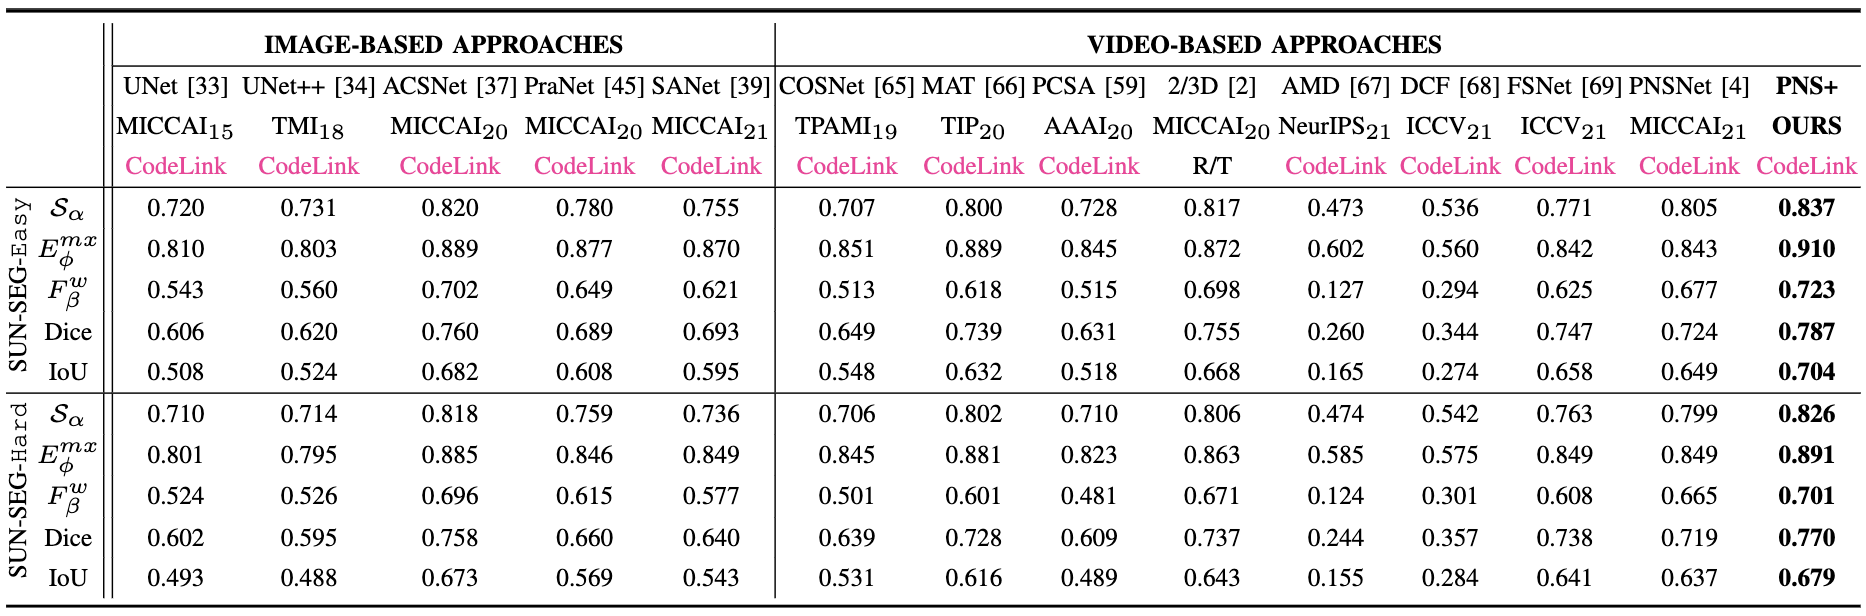
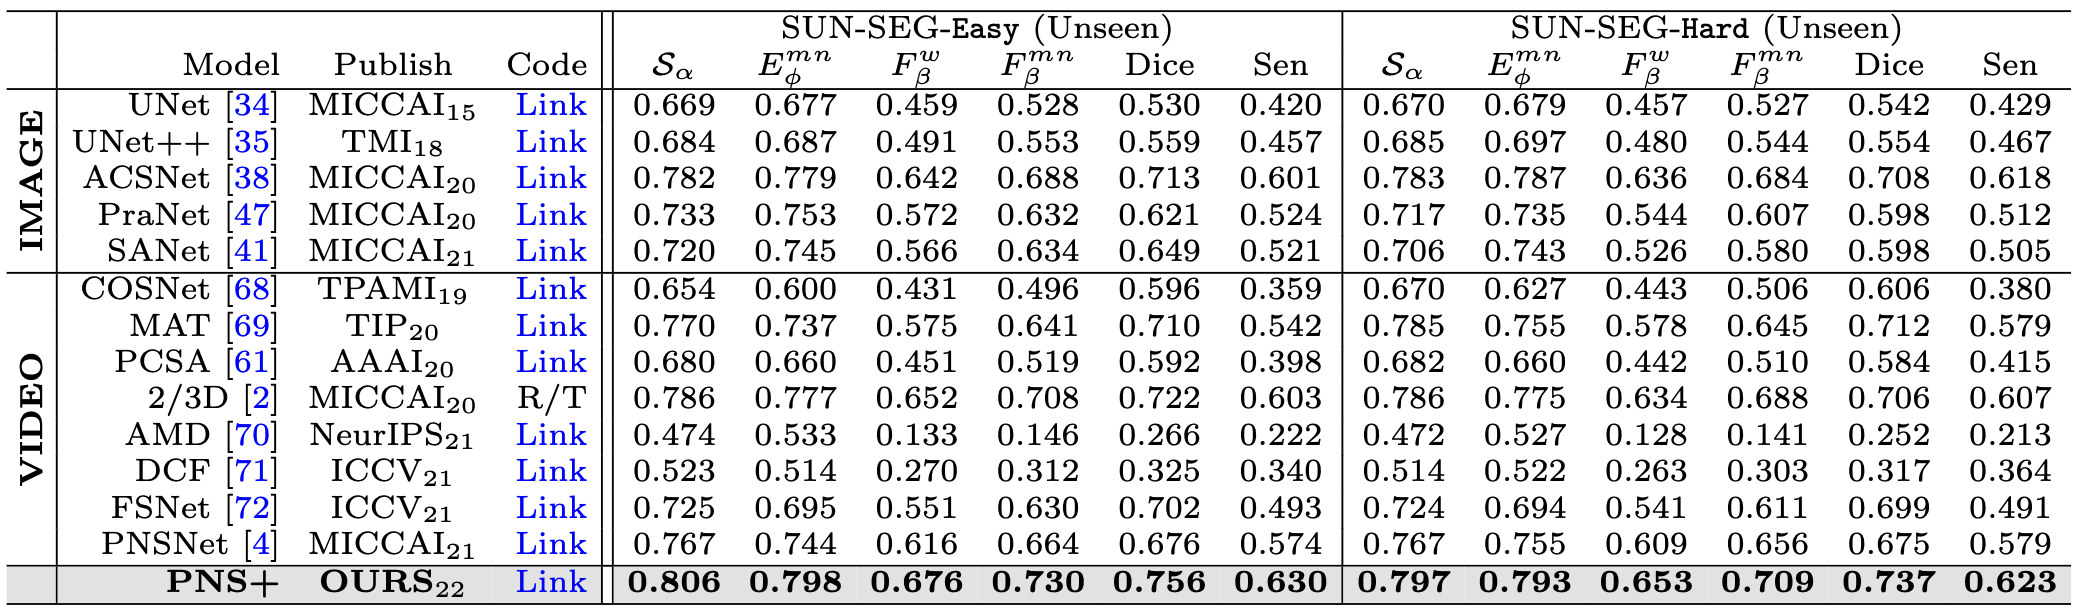
[update] new version of SUN-SEG

diff --git a/docs/DATA_DESCRIPTION.md b/docs/DATA_DESCRIPTION.md
@@ -13,18 +13,18 @@ As such, it yields the final version of our SUN-SEG dataset, which includes 49,1
 - [The Descriptions of SUN-SEG Dataset](#the-descriptions-of-sun-seg-dataset)
 - [File Tree Organization](#file-tree-organization)
 - [Dataset Statistics](#dataset-statistics)
-  * [Positive Part](#positive-part)
-  * [Negative Part](#negative-part)
+  - [Positive Part](#positive-part)
+  - [Negative Part](#negative-part)
 - [Label Description](#label-description)
-  * [Label-I: Category Classification Annotation](#label-i--category-classification-annotation)
-  * [Label-II: Object Mask](#label-ii--object-mask)
-  * [Label-III: Bounding Box](#label-iii--bounding-box)
-  * [Label-IV: Boundary](#label-iv--boundary)
-  * [Label-V: Two Weak Labels (Scribble & Polygon)](#label-v--two-weak-labels--scribble---polygon-)
-  * [Label-VI: Attributes Description](#label-vi--attributes-description)
-  * [Reference](#reference)
+  - [Label-I: Category Classification Annotation](#label-i-category-classification-annotation)
+  - [Label-II: Object Mask](#label-ii-object-mask)
+  - [Label-III: Bounding Box](#label-iii-bounding-box)
+  - [Label-IV: Boundary](#label-iv-boundary)
+  - [Label-V: Two Weak Labels (Scribble & Polygon)](#label-v-two-weak-labels-scribble--polygon)
+  - [Label-VI: Attributes Description](#label-vi-attributes-description)
+- [Rejected Labels](#rejected-labels)
 - [Citations](#citations)
-- [Rejected Labels](#reject-labels)
+  - [Reference](#reference)
 
 
 # File Tree Organization
@@ -35,7 +35,7 @@ The `Frame` folder contains the frames and the rest folders contain the correspo
 ├──data
     ├──SUN-SEG
         ├──TrainDataset
-            ├──Frame  # The images from the SUN dataset
+            ├──Frame  # The images from SUN dataset
                 ├──case1_1
                     ├──image_name_00001.jpg
                     |...
@@ -47,7 +47,7 @@ The `Frame` folder contains the frames and the rest folders contain the correspo
                     |...
                 ├──case1_3
                 |...
-            ├──Edge  # object-level segmentation mask
+            ├──Edge  # Weak label with edge
                 |...
             ├──Scribble  # Weak label with scribble
                 |...
@@ -58,21 +58,39 @@ The `Frame` folder contains the frames and the rest folders contain the correspo
             ├──Detection  # Bounding box
                 ├──bbox_annotation.json
         ├──TestEasyDataset
-            ├──Frame
-                ├──case2_3
+            ├──Seen
+                ├──Frame
+                    ├──case2_3
+                    |...
+                ├──GT
+                    ├──case2_3
+                    |...
                 |...
-            ├──GT
-                ├──case2_3
+            ├──Unseen
+                ├──Frame
+                    ├──case3_1
+                    |...
+                ├──GT
+                    ├──case3_1
+                    |...
                 |...
-            |...
         ├──TestHardDataset
-            ├──Frame
-                ├──case1_2
+            ├──Seen
+                ├──Frame
+                    ├──case1_2
+                    |...
+                ├──GT
+                    ├──case1_2
+                    |...
                 |...
-            ├──GT
-                ├──case1_2
+            ├──Unseen
+                ├──Frame
+                    ├──case10_1
+                    |...
+                ├──GT
+                    ├──case10_1
+                    |...
                 |...
-            |...
 ```
 
 
@@ -245,7 +263,7 @@ Next, we provide the complete attributes for our SUN-SEG dataset.
 
 To support learning strategies such as multi-rater agreement modeling, we follow the same file organization and relaese the rejected labels from our labeling process. 
 
-We release 49,136+17,422 labels in total, you can download the annotation file from [Google Drive](https://drive.google.com/file/d/1OtK2PR6gKQv56dIFjw0rXadcgGonf93S/view?usp=sharing) / [Baidu Drive](https://pan.baidu.com/s/18heWG-t4xNUruv-RGI5HoQ) (Password: tm1l, Size: 342MB). The label with `IMAGE_NAME_*.png` naming format is the rejected label and vice versa.
+We release 49,136+17,422 labels in total, you can download the annotation file from [OneDrive](https://anu365-my.sharepoint.com/:u:/g/personal/u7248002_anu_edu_au/Ecqs8BmYEahNh25lpJ5sVEEBHJR-IlWUxwdMz2ewGs_x8w?e=6U93Ne) / [Baidu Drive](https://pan.baidu.com/s/1U7blw6drRjgoBichthIO0w) (Password: 18rp, Size: 120MB). The label with `IMAGE_NAME_*.png` naming format is the rejected label and vice versa.
 There are 33,331 images with 1 label, 14,211 images with 2 labels, 1571 images with 3 labels, and 23 images with 4 labels.
 
 

diff --git a/README.md b/README.md
@@ -106,7 +106,7 @@ There are three simple-to-use steps to access our project code (PNS+):
 - Testing:
     
     Downloading pre-trained weights and move it into `snapshot/PNSPlus/epoch_15/PNSPlus.pth`, 
-    which can be found in this download link: [Google Drive](https://drive.google.com/drive/folders/1NboArbmI4qg9AMQA0VoJmg4g1FaMUh4Q?usp=sharing) / [Baidu Drive](https://pan.baidu.com/s/1mnd9GD2BiWFzsibv7WiwAA) (Password: g7sa, Size: 108MB).
+    which can be found in this download link: [OneDrive](https://anu365-my.sharepoint.com/:u:/g/personal/u7248002_anu_edu_au/EeisMVbuRjhJuevFzWeH1jIBsVM6DFjDABhJNONhWhHPLg?e=1gMnia) / [Baidu Drive](https://pan.baidu.com/s/1mnd9GD2BiWFzsibv7WiwAA) (Password: g7sa, Size: 108MB).
     ```bash
     python ./scripts/my_test.py
     ```
@@ -114,7 +114,7 @@ There are three simple-to-use steps to access our project code (PNS+):
 
 # 5. VPS Benchmark
 
-We provide an out-of-the-box evaluation toolbox for the VPS task, which is written in Python style. You can just run it to generate the evaluation results on your custom approach. Or you can directly download the complete VPS benchmark including prediction map of each competitor at download link: [Google Drive](https://drive.google.com/drive/folders/15xBWCFuWWg9YL5p4qdcfz8-yEeJlNFxg?usp=sharing) / [Baidu Drive](https://pan.baidu.com/s/1plDtddL9L_f0dqrREVkIPg) (Password: 9c4p, Size: 7.28G).
+We provide an out-of-the-box evaluation toolbox for the VPS task, which is written in Python style. You can just run it to generate the evaluation results on your custom approach. Or you can directly download the complete VPS benchmark including prediction map of each competitor at download link: [OneDrive](https://anu365-my.sharepoint.com/:u:/g/personal/u7248002_anu_edu_au/ESS2WHOQvLhMl5ci8wNO6yYBjnh6EVcp5vYO1z4JoOKUNg?e=nJe6Zi) / [Baidu Drive](https://pan.baidu.com/s/1Qu-0l9w0ja92nzrlWMRhoQ) (Password: 2t1l, Size: 5.45G).
 
 - More instructions about **Evaluation Toolbox** refer to [`PageLink`](https://github.com/GewelsJI/VPS/tree/main/eval).
 
@@ -139,7 +139,7 @@ Here, we present a variety of qualitative and quantitative results of VPS bencha
 <p align="center">
     <img src="./assets/ModelPerformance.png"/> <br />
     <em> 
-    Figure 4: Quantitative comparison on two testing sub-datasets, i.e., SUN-SEG-Easy and SUN-SEG-Hard. `R/T' represents we re-train the non-public model, whose code is provided by the original authors. The best scores are highlighted in bold.
+    Figure 4: Quantitative comparison on two testing sub-datasets, i.e., SUN-SEG-Easy (Unseen) and SUN-SEG-Hard (Unseen). `R/T' represents we re-train the non-public model, whose code is provided by the original authors. The best scores are highlighted in bold.
     </em>
 </p>
 
@@ -147,8 +147,8 @@ Here, we present a variety of qualitative and quantitative results of VPS bencha
 
 <p align="center">
     <img src="./assets/AttributePerformance.png"/> <br />
-    <em> 
-    Figure 5: Visual attributes-based performance on our SUN-SEG-Easy and SUN-SEG-Hard in terms of structure measure.
+    <em>  
+    Figure 5: Visual attributes-based performance on our SUN-SEG-Easy (Unseen) and SUN-SEG-Hard (Unseen) in terms of structure measure.
     </em>
 </p>
 
@@ -172,7 +172,7 @@ If you have found our work useful, please use the following reference to cite th
 
     @article{ji2022vps,
         title={Video Polyp Segmentation: A Deep Learning Perspective},
-        author={Ji, Ge-Peng and Xiao, Guobao and Chou, Yu-Cheng and Fan, Deng-Ping and Zhao, Kai and Chen, Geng and Van Gool, Luc},
+        author={Ji, Ge-Peng and Xiao, Guobao and Chou, Yu-Cheng and Fan, Deng-Ping and Zhao, Kai and Chen, Geng and Fu, Huazhu and Van Gool, Luc},
         journal={arXiv},
         year={2022}
     }

diff --git a/docs/DATA_PREPARATION.md b/docs/DATA_PREPARATION.md
@@ -18,7 +18,7 @@ So first, you guys need to request the origin colonoscopy video frame from them.
 
 And then, you can feel free to download the complete annotation provided by our SUN-SEG.
 
-- **Request for annotations from SUN-SEG:** Our re-organized annotations could be downloaded at download link: [Google Drive](https://drive.google.com/drive/folders/1MnBHu9IcDduqq3379mCD18wNTLF41gCR?usp=sharing) / [Baidu Drive](https://pan.baidu.com/s/1HMmDdnXb39eg57ALlasmsg) (Password: 0525, Size: 1.14GB).
+- **Request for annotations from SUN-SEG:** Our re-organized annotations could be downloaded at download link: [OneDrive](https://anu365-my.sharepoint.com/:u:/g/personal/u7248002_anu_edu_au/EQaHe-TN2WFJqG_RhQ6xkHsB4U2qKnEe522xFxmpnYmWjQ?e=X03wjI) / [Baidu Drive](https://pan.baidu.com/s/1_vtaxc9d1MqWJsaLxKKi2Q) (Password: lsjg, Size: 375 MB).
 
 # Step-2: Unzip SUN dataset
 
@@ -65,11 +65,19 @@ After prepare all the files, your file structure will be the same as below:
             ├──Detection
                 ├──bbox_annotation.json
         ├──TestEasyDataset
-            ├──GT
-            |...
+            ├──Seen
+                ├──GT
+                |...
+            ├──Unseen
+                ├──GT
+                |...
         ├──TestHardDataset
-            ├──GT
-            |...
+            ├──Seen
+                ├──GT
+                |...
+            ├──Unseen
+                ├──GT
+                |...
 ```
 
 You will notice that the file structure of images in `SUN-Positive` is different from the one of annotation in `SUN-SEG-Annotation`. To reconcile the file structure, you need to follow next step to finish the data preparation.
@@ -105,19 +113,37 @@ By running `sh ./utils/reorganize.sh`, the original file structure in SUN-datase
             ├──Detection  # Bounding box
                 ├──bbox_annotation.json
         ├──TestEasyDataset
-            ├──Frame
-                ├──case2_3
+            ├──Seen
+                ├──Frame
+                    ├──case2_3
+                    |...
+                ├──GT
+                    ├──case2_3
+                    |...
                 |...
-            ├──GT
-                ├──case2_3
+            ├──Unseen
+                ├──Frame
+                    ├──case3_1
+                    |...
+                ├──GT
+                    ├──case3_1
+                    |...
                 |...
-            |...
         ├──TestHardDataset
-            ├──Frame
-                ├──case1_2
+            ├──Seen
+                ├──Frame
+                    ├──case1_2
+                    |...
+                ├──GT
+                    ├──case1_2
+                    |...
                 |...
-            ├──GT
-                ├──case1_2
+            ├──Unseen
+                ├──Frame
+                    ├──case10_1
+                    |...
+                ├──GT
+                    ├──case10_1
+                    |...
                 |...
-            |...
 ```
